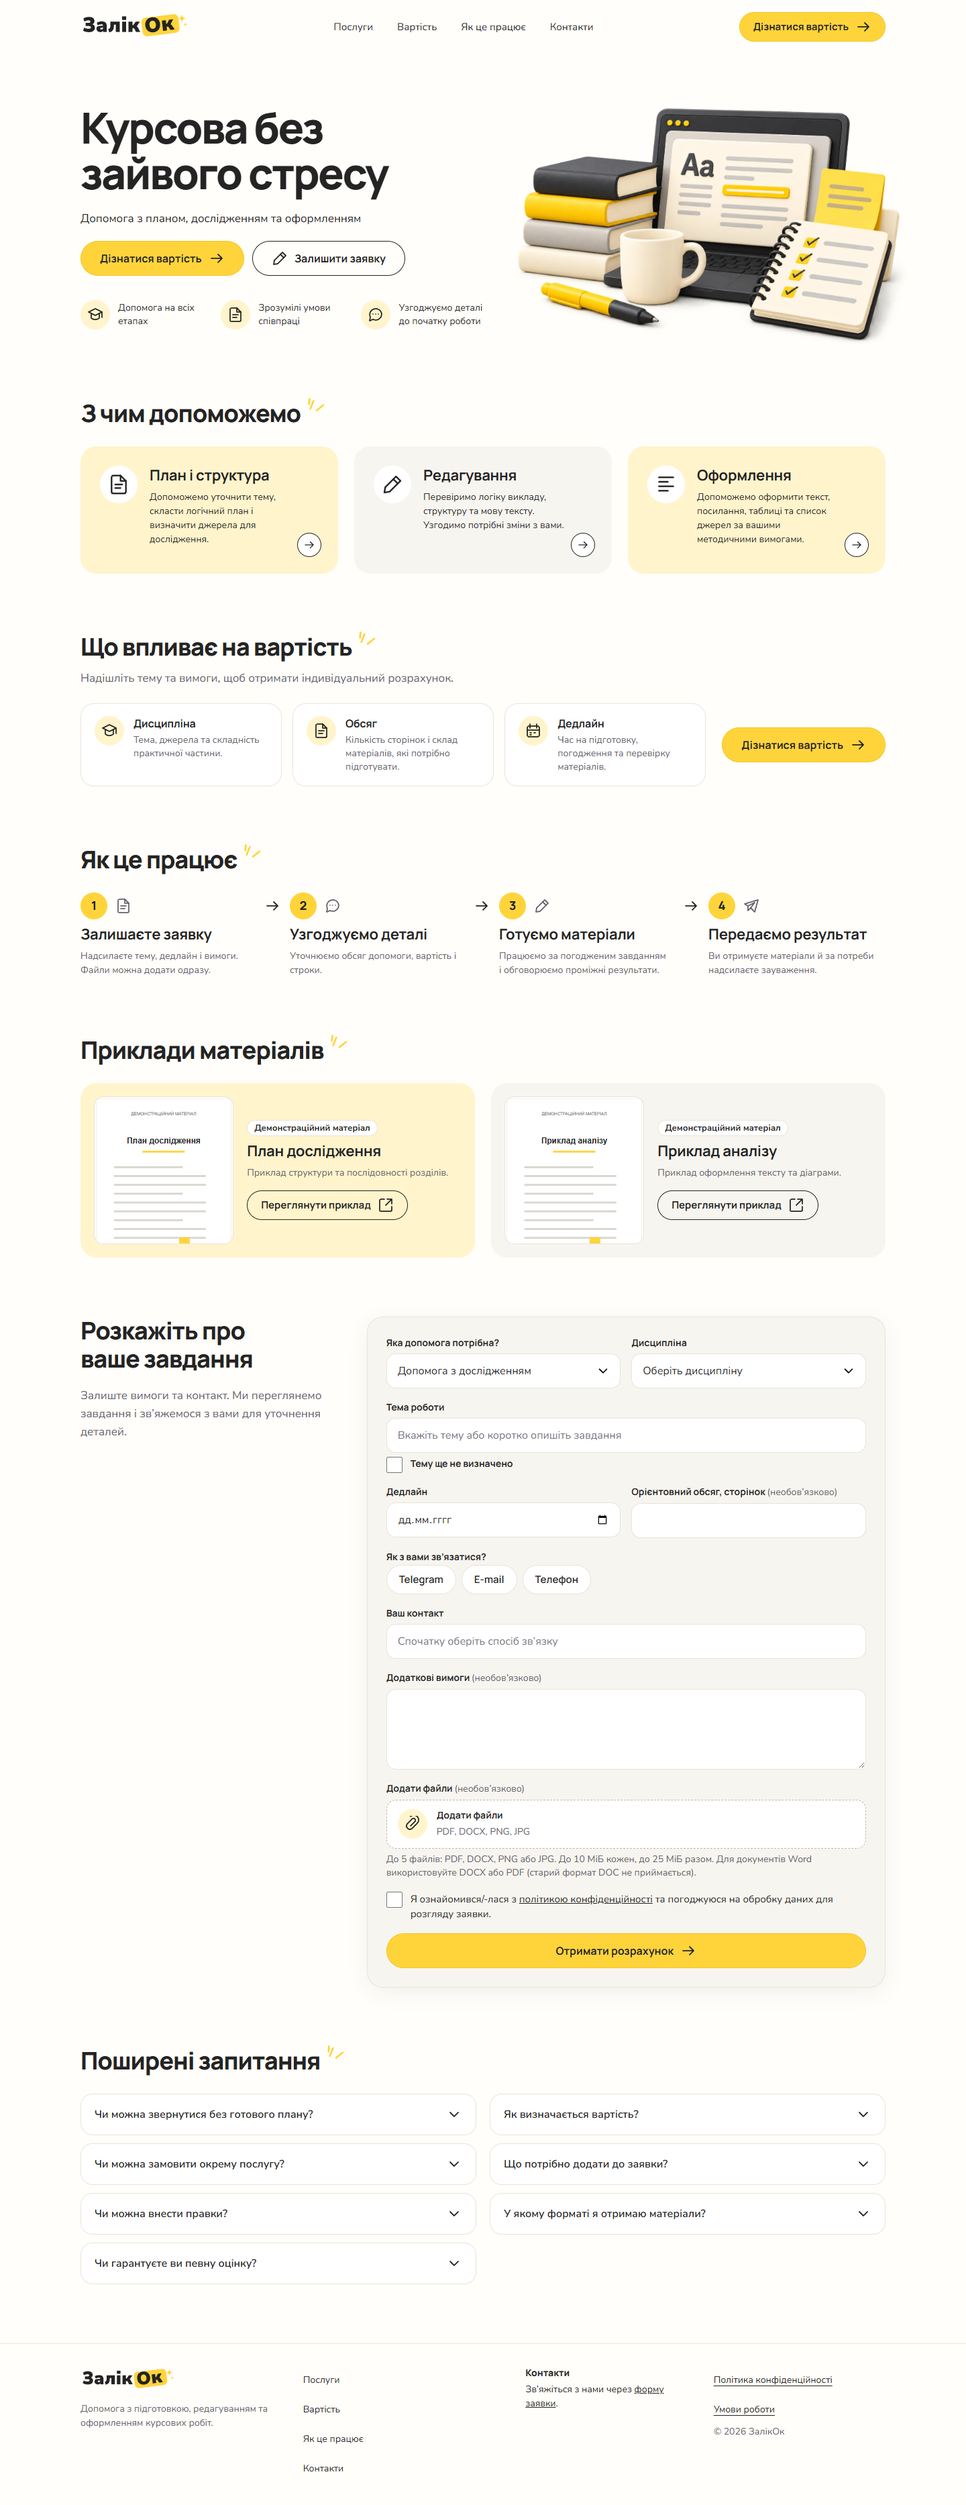
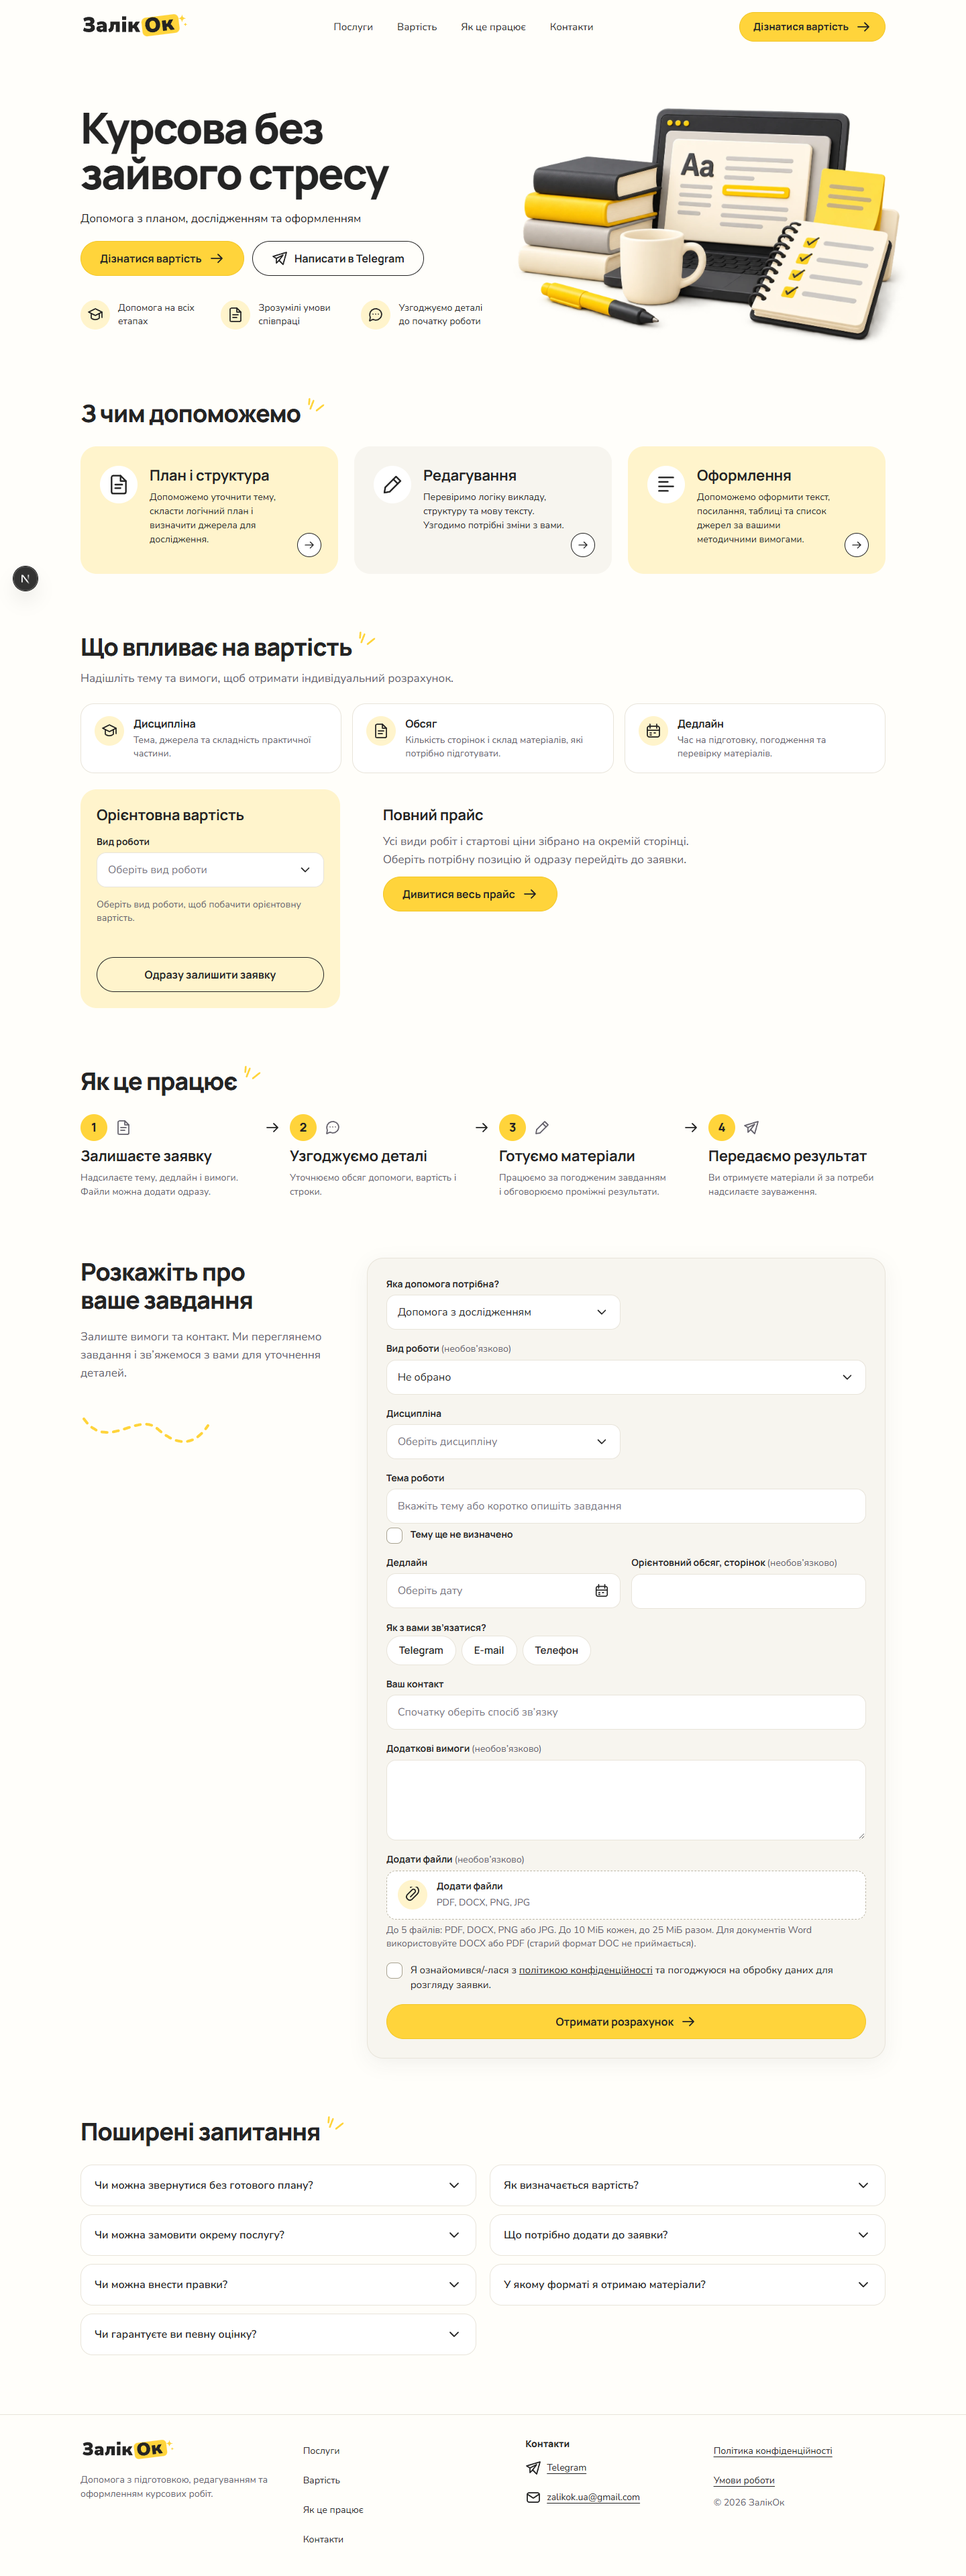
Rename hero heading to "Студентські роботи без зайвого стресу"

diff --git a/tests/e2e/site.spec.ts b/tests/e2e/site.spec.ts
@@ -7,7 +7,7 @@ test.describe('головна', () => {
     page.on('pageerror', (e) => errors.push(String(e)));
     await page.goto('/');
     await expect(page.locator('h1')).toHaveCount(1);
-    await expect(page.locator('h1')).toHaveText('Курсова без зайвого стресу');
+    await expect(page.locator('h1')).toHaveText('Студентські роботи без зайвого стресу');
     await expect(page.locator('header img[alt="ЗалікОк"]').first()).toHaveAttribute('src', '/assets/brand/logo-primary.svg');
     const text = await page.locator('body').innerText();
     expect(text).not.toMatch(/Курсові/);

diff --git a/IMPLEMENTATION_STATUS.md b/IMPLEMENTATION_STATUS.md
@@ -115,3 +115,5 @@
 
 ## Доповнення: прибрано блок «Приклади матеріалів» — ✅
 - Видалено секцію з головної, компонент `Samples`, його стилі, тексти в `site-content.json`, демонстраційні файли `public/assets/samples` і відповідні тести (Playwright 72/72, Vitest 42/42). Повні оригінали лишилися в пакеті `ZalikOk_Package/assets/samples`.
+
+- Заголовок hero змінено на «Студентські роботи без зайвого стресу» (`content/site-content.json`, тест оновлено).
